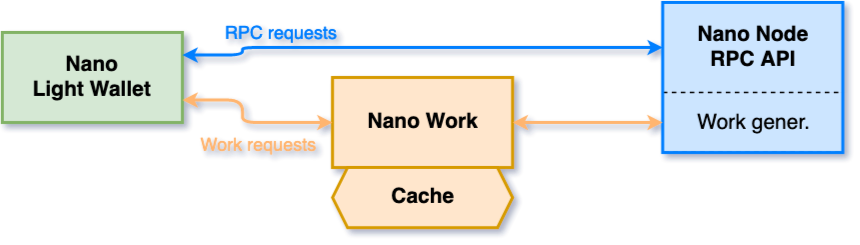
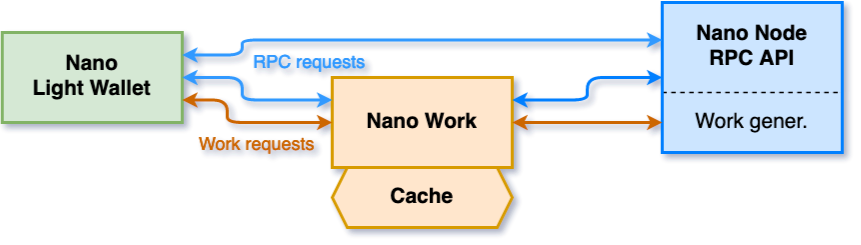
Doc changes (add stats to Readme, update diagram).

diff --git a/README.md b/README.md
@@ -22,6 +22,8 @@ Light wallets need only to fire a simple message to trigger work computation in 
 when it is needed.  At that time PoW will be retured fast from the cache.
 The Nano Work Cache does not compute work itself, it just proxies work reqests to a node, and caches results.
 
+In a real-world usage, cache hit ratio was **92%**.  In a larger wallet setup, over a period of several days, 3412 work requests were served from the cache, out of 3703.  During the same period, an additional 2627 work proofs have been precomputed.
+
 ## Prerequisites
 
 * Golang
@@ -80,7 +82,7 @@ See also the details of the [Integration Options (API.md)](API.md).
 
 - Periodically retrieve current difficulty from node
 - Aging of cache entries (e.g. after 10 days)
+- Store cache in Redis
 - Support nano work peers
 - Cache cleanup: remove old entries for accounts, for which newer one exists
-- React to proxied new block calls, trigger work computation for new block right away
 - Listen on new blocks from node; if a new block is created for a recently used account, trigger work computation for new block right away
